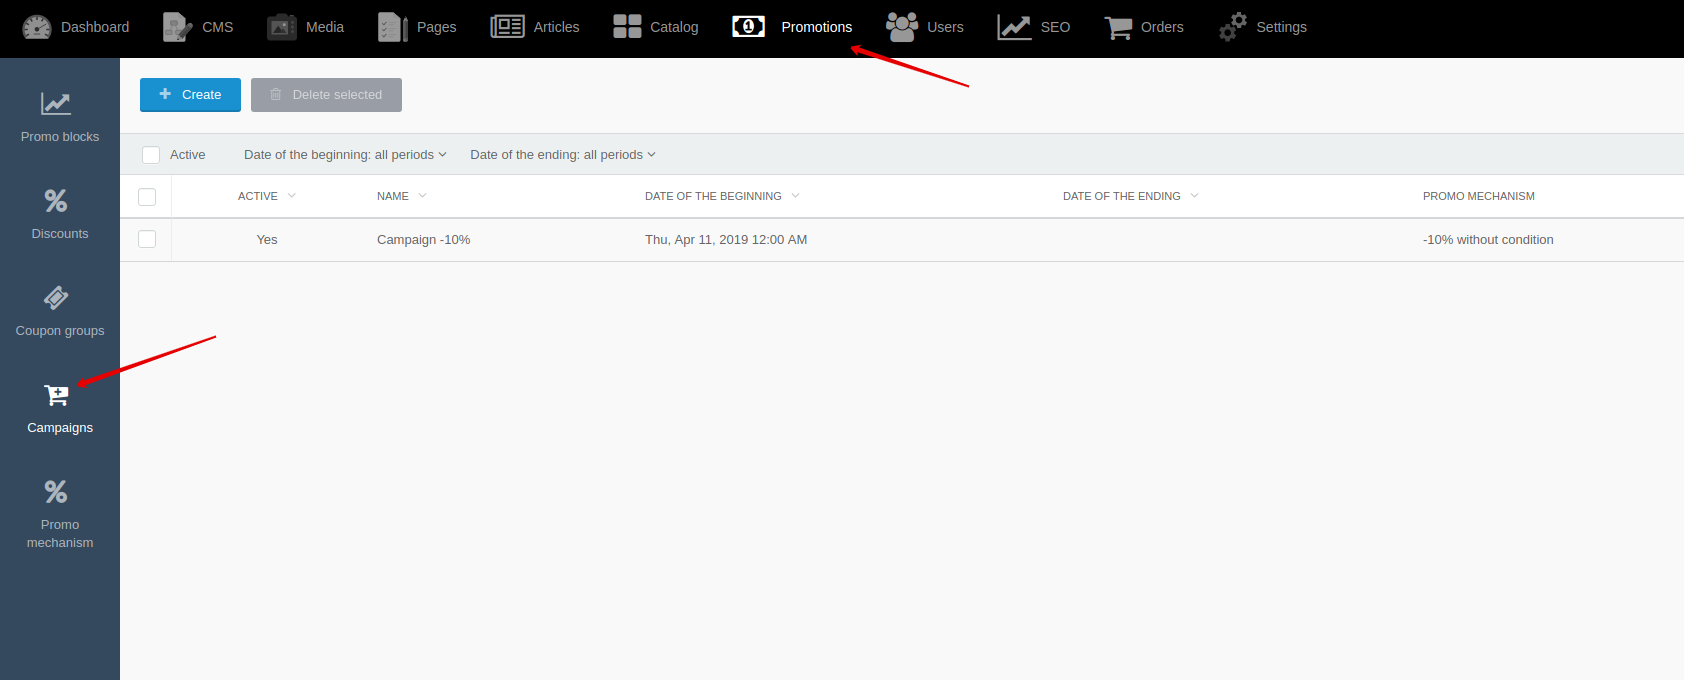
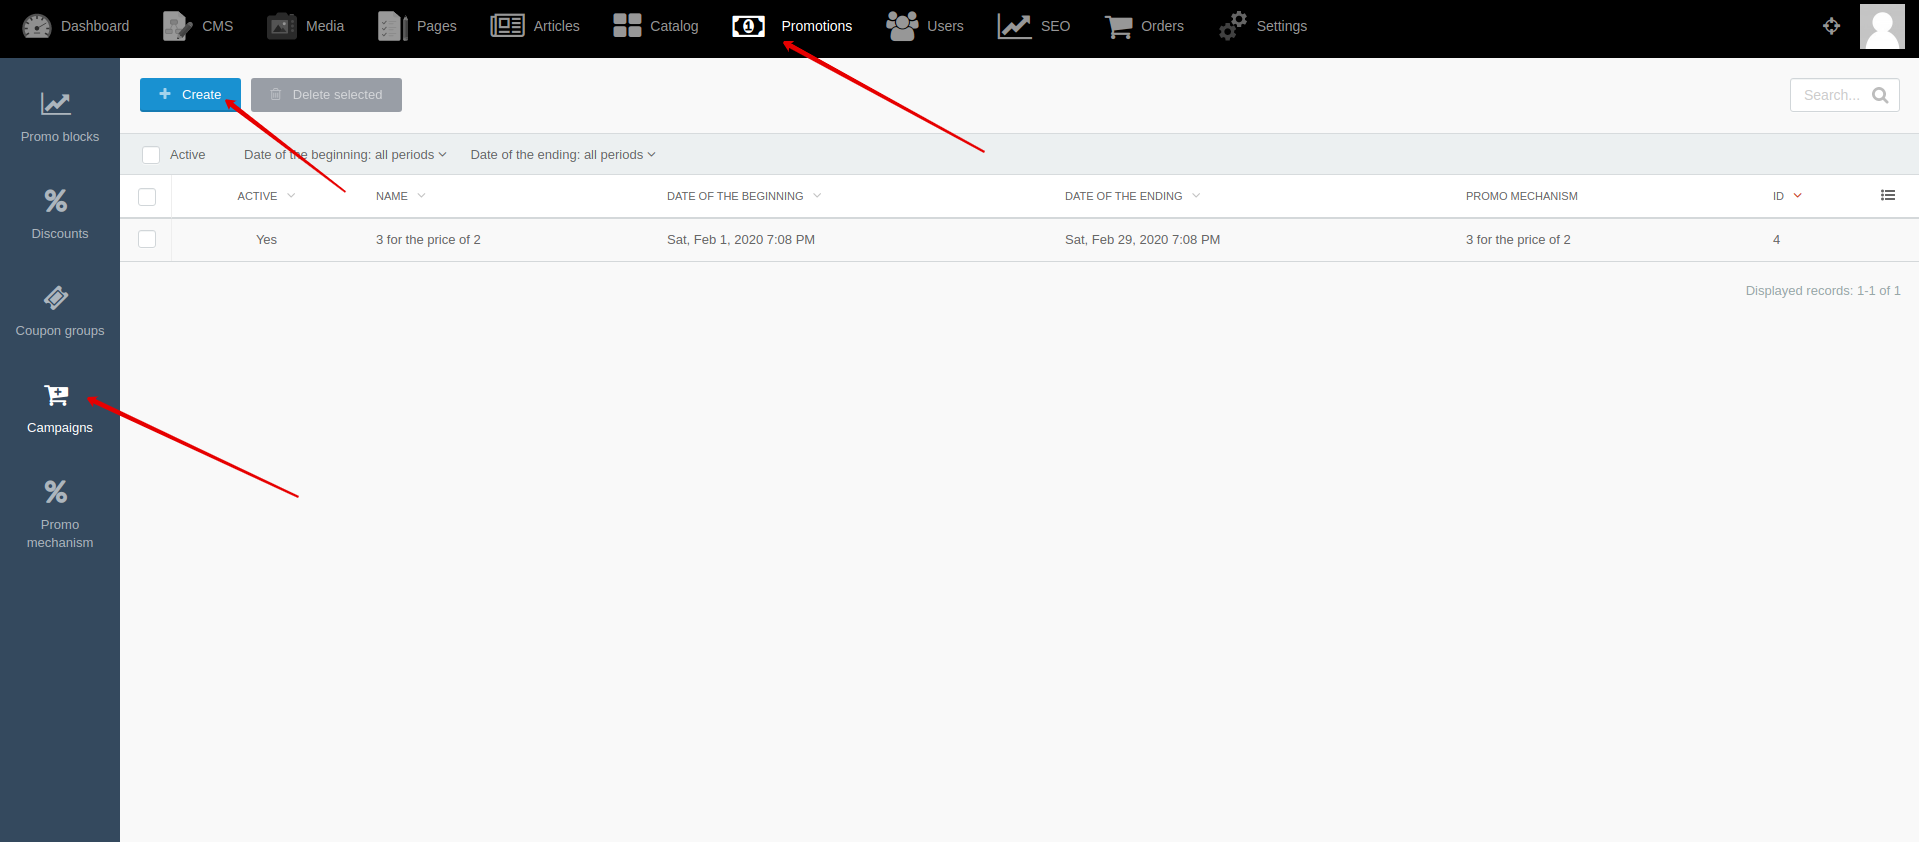
Added campaigns section

diff --git a/modules/campaign/home.md b/modules/campaign/home.md
@@ -1,11 +1,10 @@
-# Campaign {docsify-ignore-all}
+{% extends "docs/modules/home-default.md" %}
 
-[Back to modules](modules/home.md)
+{% block content %}
+{{ parent() }}
 
-!> **Attention!**  We recommend that you read [Architecture](architecture/architecture), [ElementItem class](architecture/item-class/item-class.md),
-[ElementCollection class](architecture/collection-class/collection-class.md) sections for complete understanding of  project architecture.
-
-“Campaigns” is module that allows you to apply promo mechanisms on cart/checkout page.
+“Campaigns” is module that allows you to automatically apply promo mechanisms to cart and orders according to your schedule.
+You can attach products, offers, categories, brands, shipping types, tags to limit the list of products and offers to which the promo mechanism will be applied.
 
 > After you create and configure "campaign", it will automatically begin to apply promo mechanisms to cart and order positions.
 No additional code changes are required.
@@ -19,5 +18,5 @@ For example:
 You can create and edit campaigns by going to **Backend -> Promotions -> Campaigns**
 
 ![](./../../assets/images/backend-campaign-1.png)
-
-[Back to modules](modules/home.md)
+![](./../../assets/images/backend-campaign-2.png)
+{% endblock %}

diff --git a/modules/home.md b/modules/home.md
@@ -4,7 +4,8 @@
 |---|---|---|
 |**A**|[Accessory](modules/accessory/home.md)|{{ 'accessories'|available_with }}|
 |**B**|[Brand](modules/brand/home.md)|{{ 'shopaholic'|available_with }}|
-|**C**|[Cart](modules/cart/home.md)|{{ 'orders'|available_with }}|
+|**C**|[Campaign](modules/campaign/home.md)|{{ 'campaigns'|available_with }}|
+||[Cart](modules/cart/home.md)|{{ 'orders'|available_with }}|
 ||[CartPosition](modules/cart-position/home.md)|{{ 'orders'|available_with }}|
 ||[Category](modules/category/home.md)|{{ 'shopaholic'|available_with }}|
 ||[Currency](modules/currency/home.md)|{{ 'shopaholic'|available_with }}|

diff --git a/modules/campaign/collection.md b/modules/campaign/collection.md
@@ -1,0 +1,12 @@
+{% extends 'docs/modules/collection-default.md' %}
+
+{% block method_list %}
+{{ parent() }}
+
+* [promoBlock](#promoblockipromoblockid)
+
+### promoBlock($iPromoBlockID)
+  * $iPromoBlockID - promo block ID
+
+Method applies filter by promo block ID.
+{% endblock %}

diff --git a/modules/campaign/item.md b/modules/campaign/item.md
@@ -1,0 +1,3 @@
+{% extends 'docs/modules/item-default.md' %}
+
+{% block method_list %}{% endblock %}
